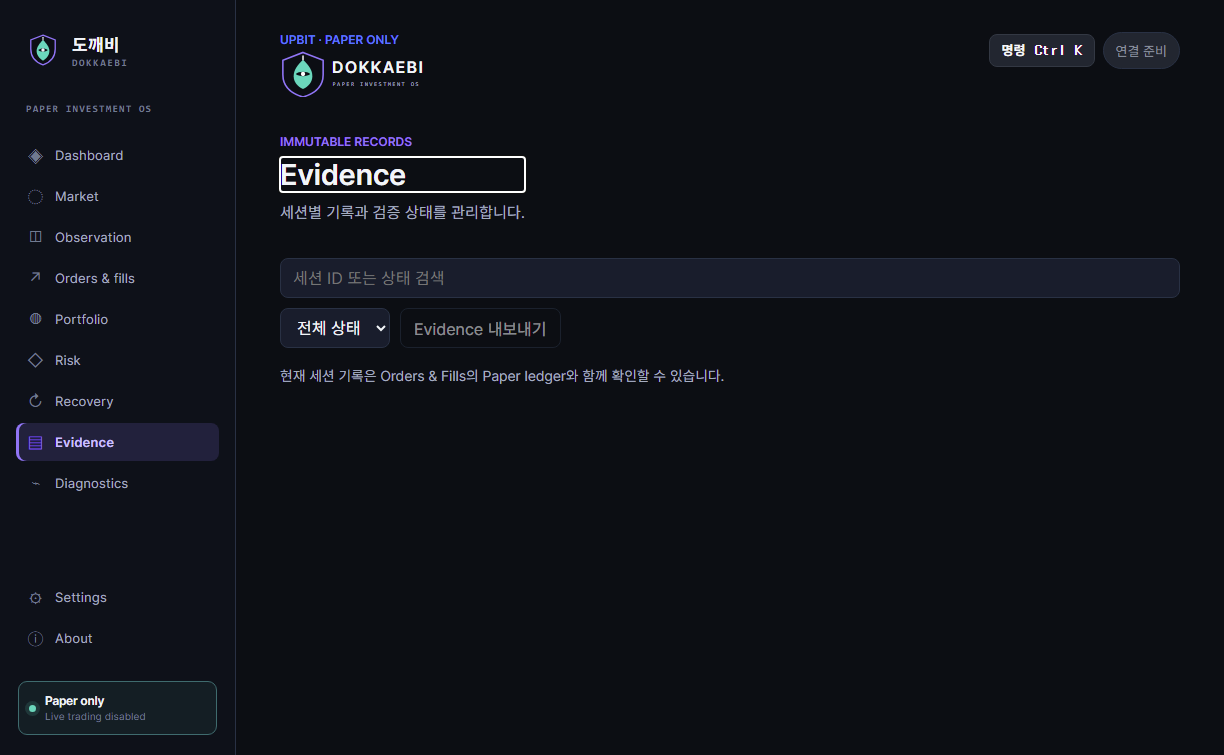
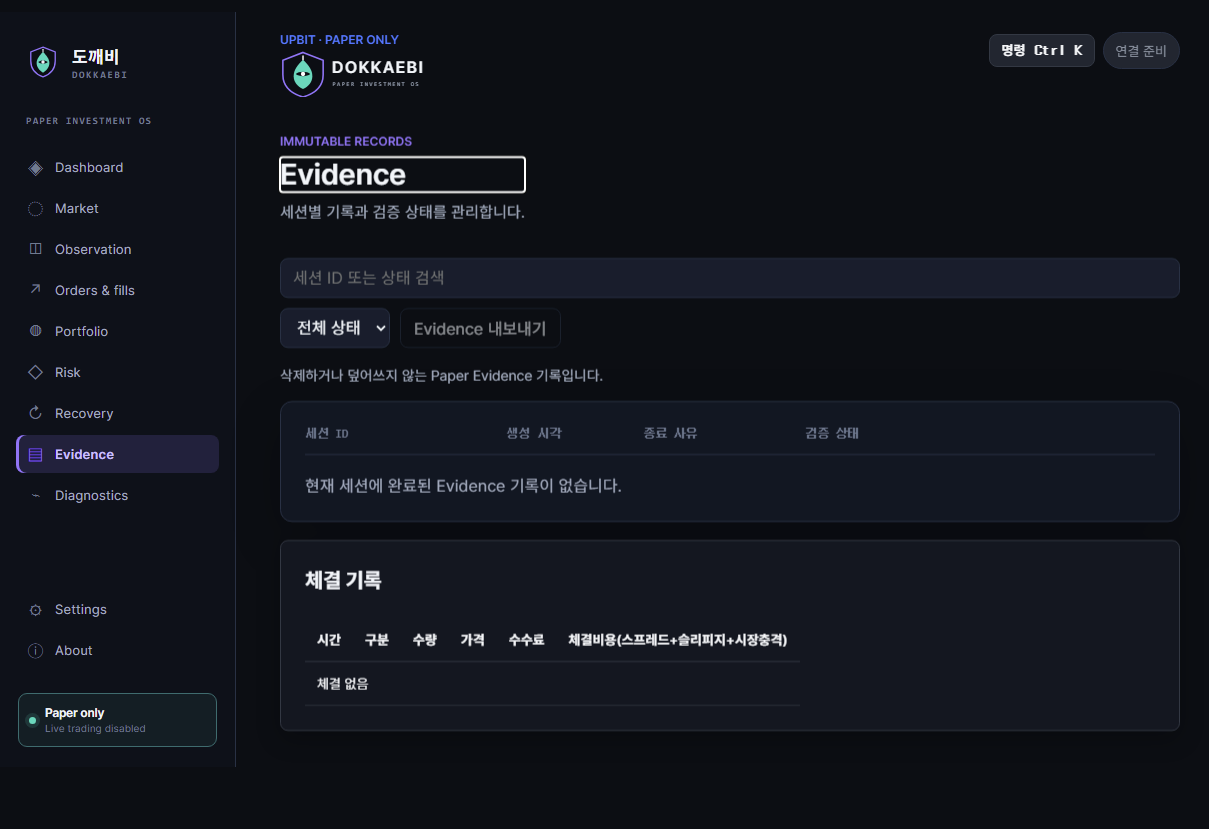
feat: refine A4P evidence and order workspaces

diff --git a/apps/desktop/renderer/brand-ui.js b/apps/desktop/renderer/brand-ui.js
@@ -122,7 +122,6 @@
     const eventsCard = document.querySelector("#events")?.closest("article");
     if (eventsCard) panels.shadow.append(eventsCard);
     const ordersSection = document.querySelector("#orders")?.closest("section");
-    if (ordersSection && ordersSection !== panels.orders) panels.orders.append(ordersSection);
     const accountCard = document.querySelector("#cash")?.closest("article");
     if (accountCard && accountCard !== panels.portfolio) panels.portfolio.append(accountCard);
     moveInto(panels.risk, ["#a4-diagnostics"]);
@@ -136,13 +135,19 @@
     for (const optionText of ["전체 상태", "PASS", "REJECT", "ERROR"]) { const option = node("option", "", optionText); option.value = optionText; status.append(option); }
     const exportButton = node("button", "workspace-secondary", "Evidence 내보내기"); exportButton.type = "button"; exportButton.disabled = true; exportButton.title = "현재 안전 브리지에서 제공될 때 활성화됩니다";
     evidence.append(search, status, exportButton);
-    panels.evidence.append(evidence, node("p", "workspace-note", "현재 세션 기록은 Orders & Fills의 Paper ledger와 함께 확인할 수 있습니다."));
+    panels.evidence.append(evidence, node("p", "workspace-note", "삭제하거나 덮어쓰지 않는 Paper Evidence 기록입니다."));
+    const evidenceList = node("article", "workspace-card evidence-list");
+    evidenceList.append(node("div", "evidence-list__header", "세션 ID                         생성 시각             종료 사유                 검증 상태"), node("p", "evidence-list__empty", "현재 세션에 완료된 Evidence 기록이 없습니다."));
+    panels.evidence.append(evidenceList);
+    if (ordersSection && ordersSection !== panels.evidence) panels.evidence.append(ordersSection);
     const recoveryFlow = node("ol", "recovery-flow");
     for (const label of ["비정상 종료 감지", "상태 대조", "결과 확인", "소유자 검토", "복구 완료"]) recoveryFlow.append(node("li", "recovery-flow__step", label));
     panels.recovery.prepend(recoveryFlow);
     panels.risk.prepend(node("article", "workspace-card workspace-card--summary", "현재 진단은 읽기 전용입니다. 문제가 있으면 자동 실행하지 않고 차단 상태를 유지합니다."));
     panels.shadow.append(node("p", "workspace-note", "가상 체결은 관측 설명용이며 실제 주문·체결·현금·포지션 변동은 0이어야 합니다."));
-    panels.orders.append(node("p", "workspace-note", "Paper 기록만 표시됩니다."));
+    const orderSummary = node("div", "workspace-kpi-grid workspace-kpi-grid--two");
+    orderSummary.append(sectionTitle("Paper 주문", "0", "neutral"), sectionTitle("Paper 체결", "0", "neutral"), sectionTitle("현금 변동", "0", "safe"), sectionTitle("포지션 변동", "0", "safe"));
+    panels.orders.append(orderSummary, node("p", "workspace-note", "주문과 체결은 Paper ledger에서만 기록됩니다. 실제 주문 경로는 비활성화되어 있습니다."));
     panels.portfolio.append(node("p", "workspace-note", "이 화면의 계좌 수치는 Paper 환경에서만 계산됩니다."));
     for (const child of [...main.children]) {
       if (child !== header && child !== views && child.id !== "dashboard") child.hidden = true;

diff --git a/apps/desktop/renderer/workspace.css b/apps/desktop/renderer/workspace.css
@@ -24,6 +24,9 @@
 .workspace-action-link:focus-visible, .workspace-copy:focus-visible, .workspace-secondary:focus-visible, .workspace-search:focus-visible, .workspace-filter:focus-visible { outline: 3px solid var(--brand-accent); outline-offset: 3px; }
 .workspace-note { color: var(--brand-secondary); font-size: 0.86rem; line-height: 1.55; }
 .workspace-evidence-tools { display: flex; flex-wrap: wrap; gap: 10px; margin-bottom: 18px; }
+.evidence-list { margin-bottom: 18px; }
+.evidence-list__header { padding-bottom: 12px; color: var(--brand-muted); border-bottom: 1px solid var(--brand-border); font: 700 0.72rem/1.4 var(--font-mono); white-space: pre; overflow-x: auto; }
+.evidence-list__empty { margin: 18px 0 0; color: var(--brand-secondary); }
 .workspace-search, .workspace-filter { min-height: 40px; padding: 0 12px; color: var(--brand-text); background: var(--brand-raised); border: 1px solid var(--brand-border); border-radius: 8px; font: inherit; }
 .workspace-search { min-width: min(100%, 280px); }
 .workspace-secondary, .workspace-copy { min-height: 40px; padding: 0 13px; color: var(--brand-text); background: transparent; border: 1px solid var(--brand-border); border-radius: 8px; font: inherit; cursor: pointer; }

diff --git a/scripts/capture-a4p-evidence.js b/scripts/capture-a4p-evidence.js
@@ -1,0 +1,12 @@
+const { _electron: electron } = require("@playwright/test");
+
+(async () => {
+  const app = await electron.launch({ executablePath: require("electron"), args: ["apps/desktop", "--disable-gpu"], env: { ...process.env, ELECTRON_IS_DEV: "0" } });
+  const page = await app.firstWindow();
+  await page.waitForTimeout(600);
+  await page.evaluate(() => window.DokkaebiBrandUI.activate("evidence"));
+  await page.waitForTimeout(100);
+  await page.screenshot({ path: "docs/artifacts/a4p-v2/evidence.png", fullPage: true });
+  console.log(await page.locator(".workspace-view.is-active .workspace-view__title").textContent());
+  await app.close();
+})().catch((error) => { console.error(error.stack || error); process.exit(1); });

diff --git a/tests/brand-ui.test.js b/tests/brand-ui.test.js
@@ -53,6 +53,8 @@ test("A4P workspace gives each product screen an independent view and a prioriti
   assert.match(brandScript, /다음 행동/);
   assert.match(brandScript, /recovery-flow/);
   assert.match(brandScript, /Evidence 검색/);
+  assert.match(brandScript, /workspace-kpi-grid--two/);
+  assert.match(brandScript, /삭제하거나 덮어쓰지 않는 Paper Evidence 기록/);
 });
 
 test("A4P screen routing is keyboard and accessibility aware", () => {
